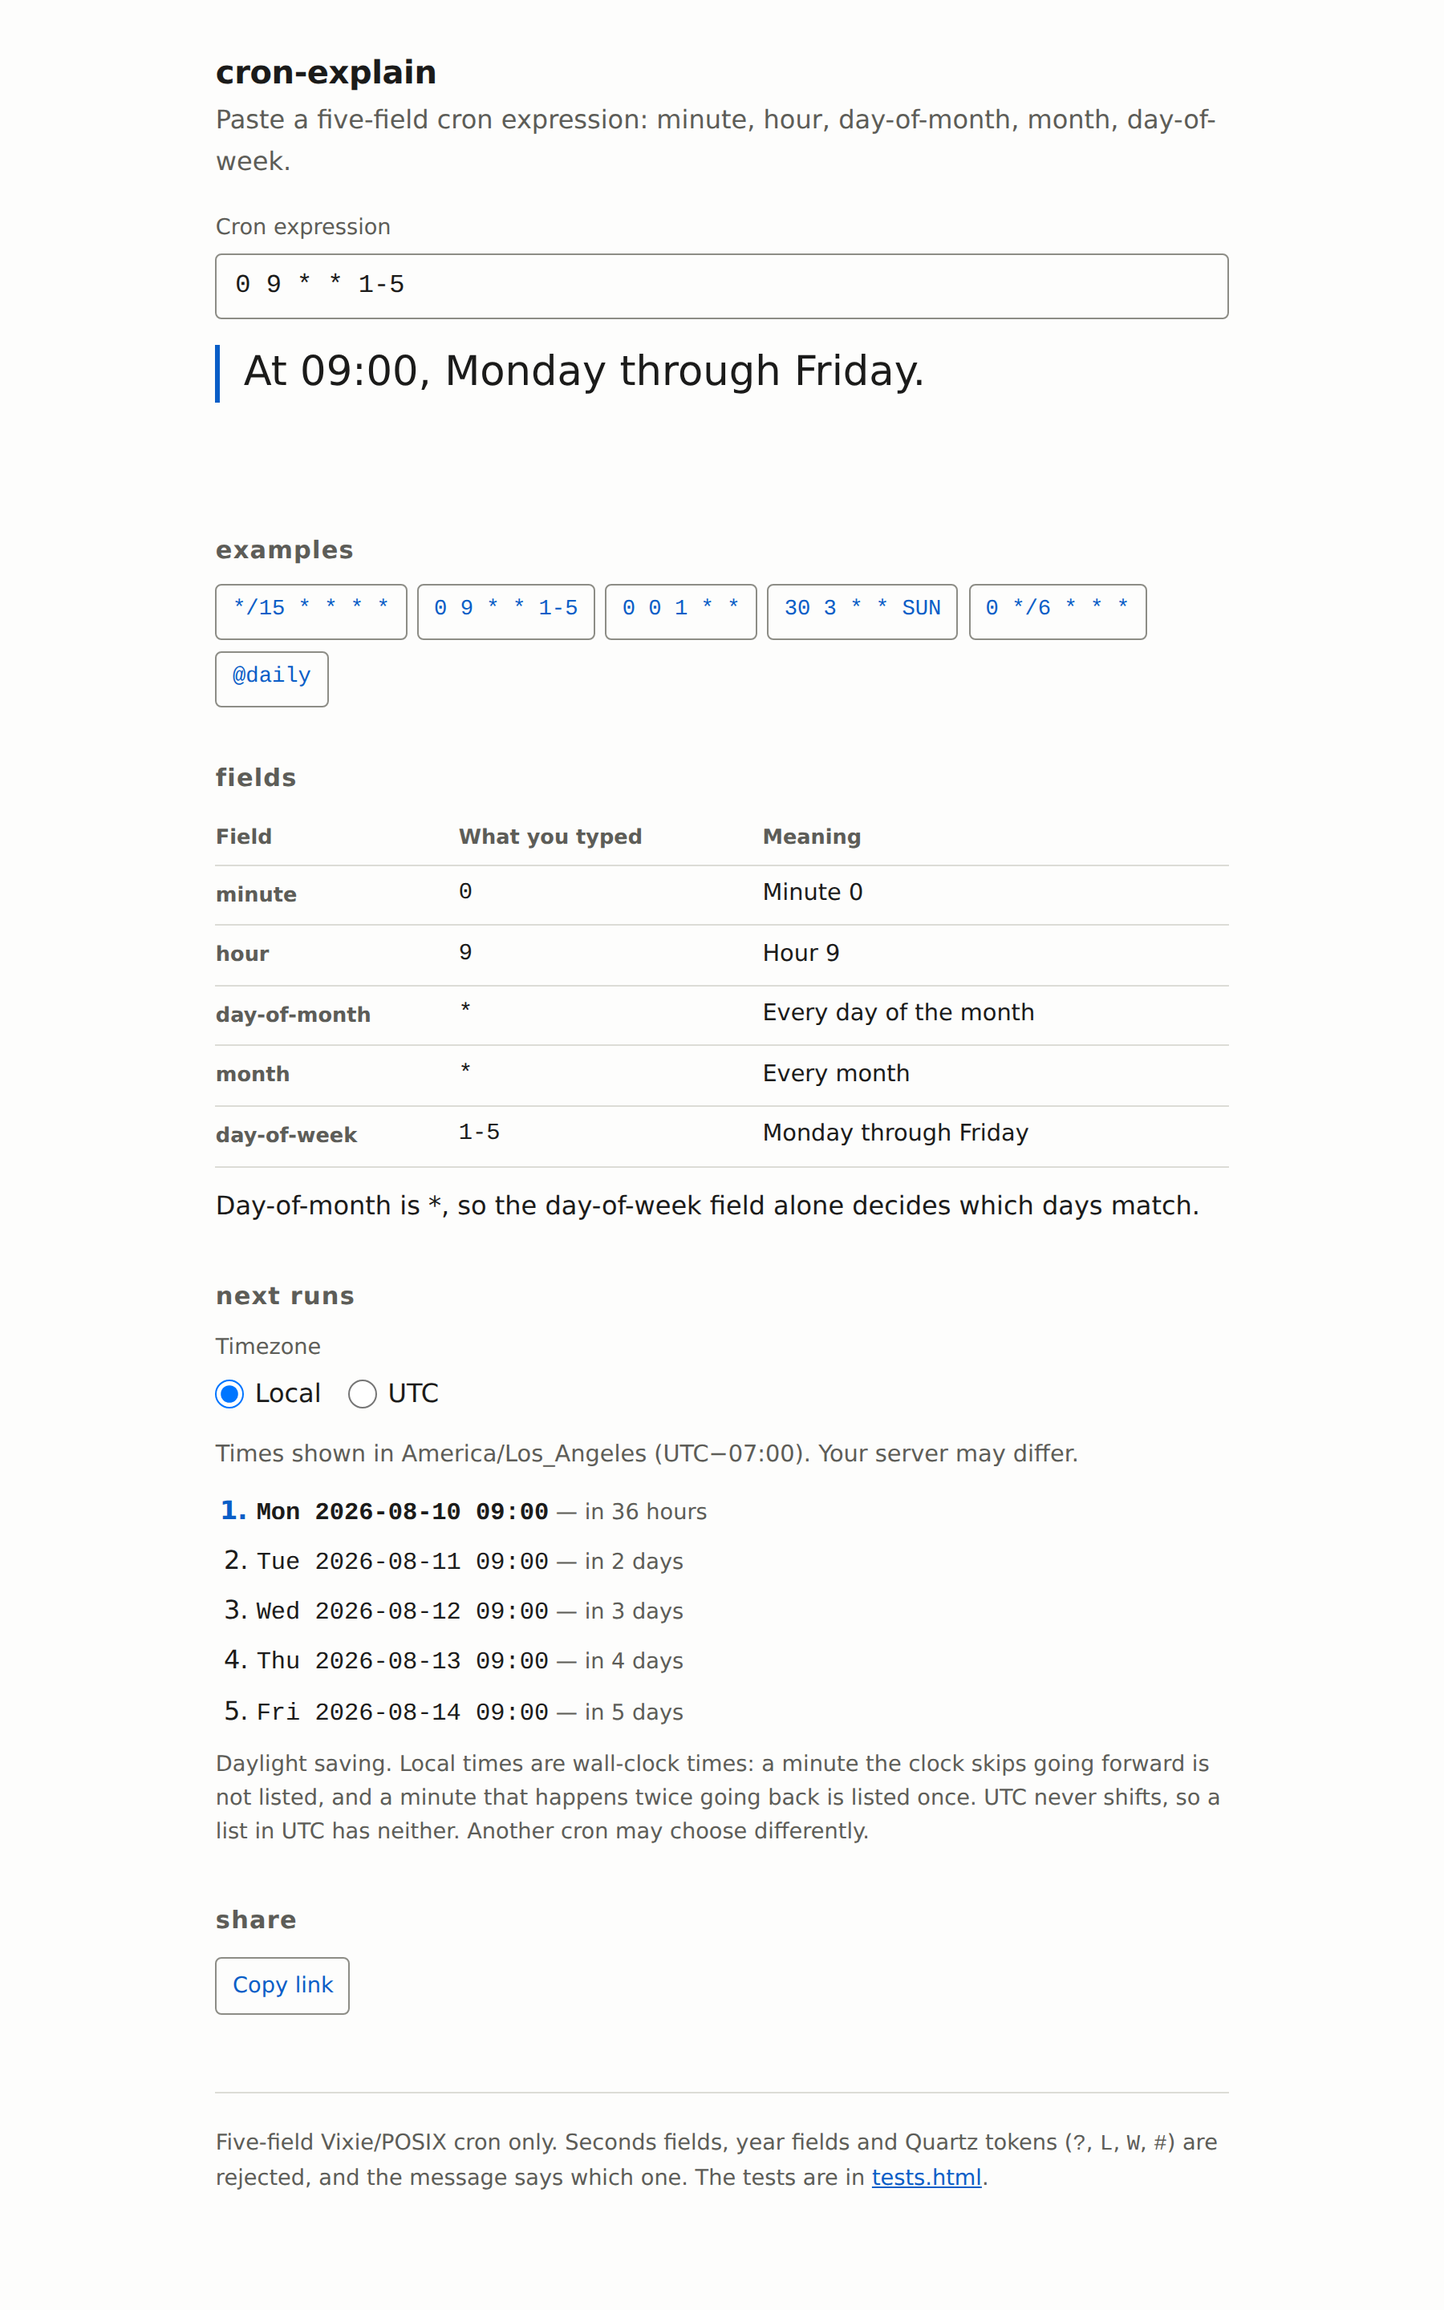
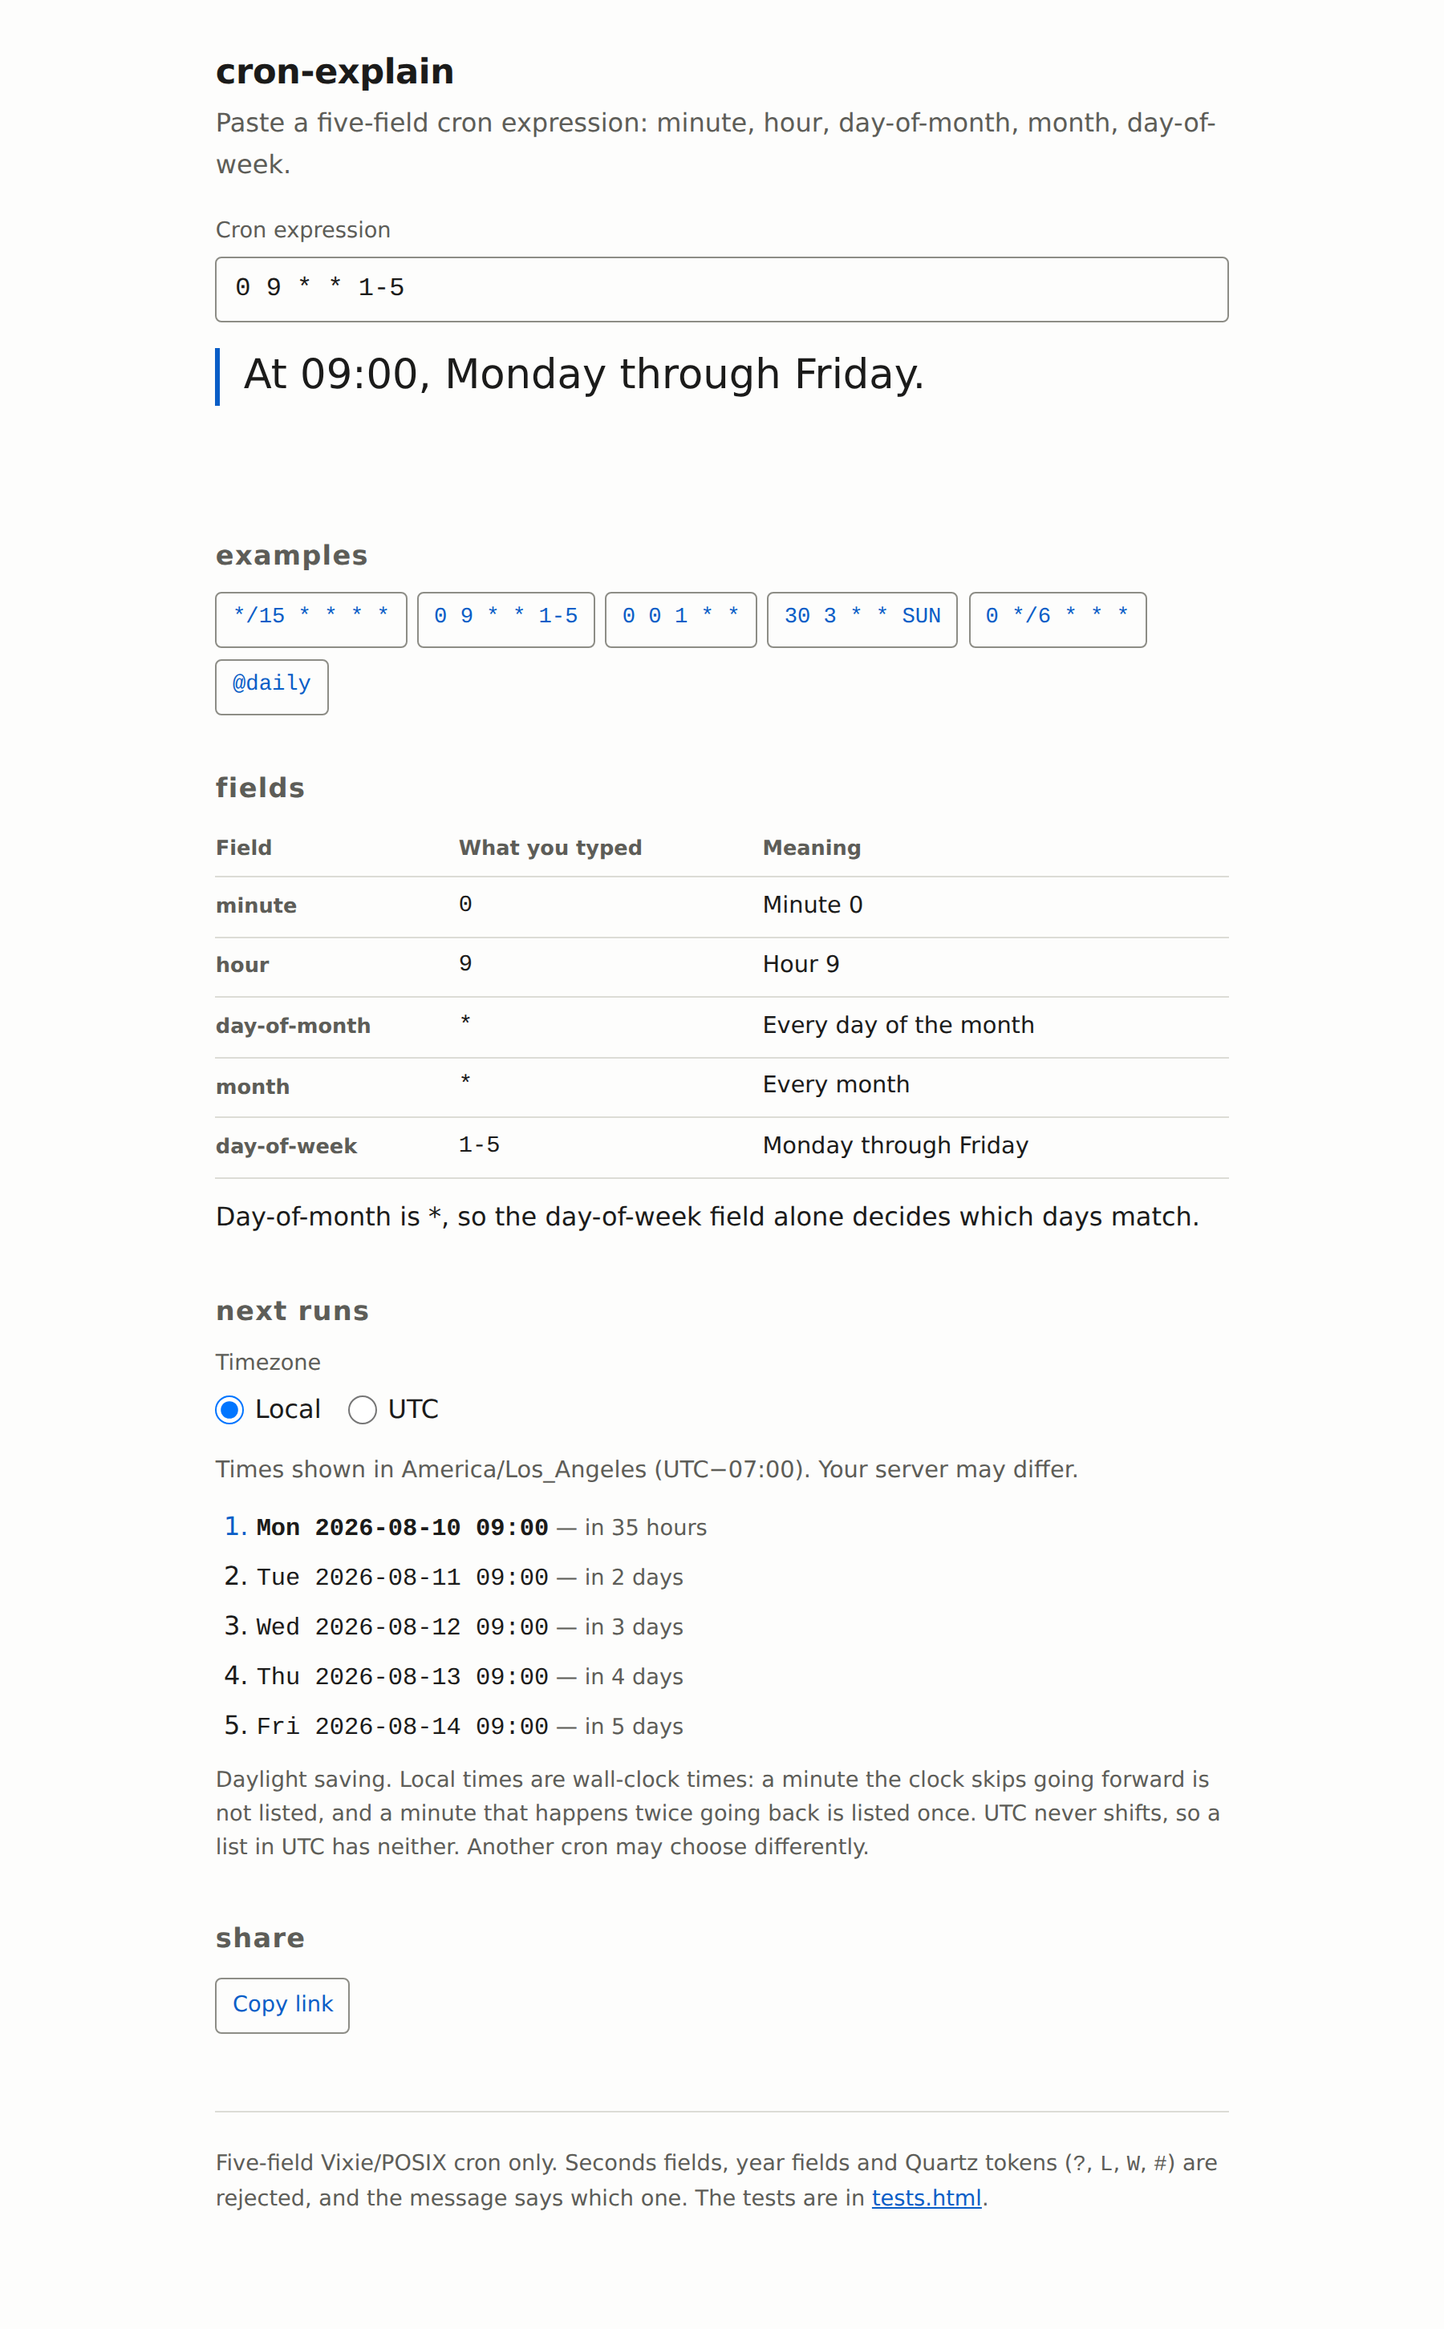
ui: fix what the last cycle's visual pass broke
- The error message had been left at .95rem while the sentence grew, so a
  mistyped character shrank the answer region to below body-text size. It
  is set as an answer now, capped by the reserve rather than by taste.
- Clearing the box fired three red alarms -- error text, two (not current)
  flags, a red rule -- for the most ordinary act on the page. An empty
  field is a resting state again: a muted prompt, the breakdown greyed and
  labelled, nothing red. A malformed expression still gets the full
  treatment.
- The answer's rule stayed blue down a red error while the run list turned
  red for the same fact. One state, one colour.
- @reboot's line hung 3px right of every other paragraph, from a border
  that li.empty's negative margin did not account for.
- The heading ladder had collapsed to within 0.8px on a phone. Ordered and
  measured now: answer > h1 > h2 > body at every breakpoint.
- The bolded first run leaned on the stale rule; the other four did not.

Screenshot re-captured. No horizontal scroll at ten widths across fourteen
expressions; the answer's first line holds one y per width across every
state, and the tallest error still fits the unchanged reserve.

diff --git a/index.html b/index.html
@@ -58,10 +58,14 @@
   }
   main { max-width: 62ch; margin: 0 auto; }
   /* The title is a label on a page you are already looking at; the sentence is
-     what you came for. So the title is set below body-plus, not above it, and
-     the answer is the largest thing on screen. See .sentence. */
-  h1 { font-size: 1.25rem; line-height: 1.3; margin: 0 0 .25rem; letter-spacing: -0.01em; }
-  h2 { font-size: .95rem; text-transform: lowercase; letter-spacing: .04em; color: var(--muted);
+     what you came for, so the answer stays the largest thing on screen. But the
+     ladder below it has to stay legible as a ladder: answer > h1 > h2 > body at
+     every breakpoint. Trimming h1 to 1.25rem/1.05rem put it within 0.8px of the
+     body text on a phone, which is no rank at all. These four steps are ordered
+     and measured: 25.6 / 21.6 / 16.8 / 16 wide, 21.6 / 19.2 / 16.8 / 16 at
+     <=480. See .sentence for the top of the ladder. */
+  h1 { font-size: 1.35rem; line-height: 1.3; margin: 0 0 .25rem; letter-spacing: -0.01em; }
+  h2 { font-size: 1.05rem; text-transform: lowercase; letter-spacing: .04em; color: var(--muted);
        margin: 2rem 0 .5rem; font-weight: 600; }
   /* The answer's reserve already ends in space; another 2rem on top of that is
      what made the resting state read as a gap nothing had filled. */
@@ -119,7 +123,7 @@
      y in every state. Two earlier attempts at this moved that line instead of
      pinning it. */
   .answer {
-    min-height: 6rem;      /* measured: tallest error at >=768px is 95.6px */
+    min-height: 6rem;      /* reserve holds; tallest error at >=768px now 80.0px */
     margin: 1rem 0 0;
   }
   /* The accent rule sits on the paragraphs, not on the block, so it stops
@@ -131,9 +135,25 @@
   .answer p { margin: 0; padding-left: .9rem; border-left: 3px solid var(--accent); }
   /* An empty paragraph must not reserve its margins on top of the block's. */
   .answer p:empty { display: none; }
+  /* One state, one colour. The run list ~700px below turns --error for the same
+     "not current" fact, so a blue rule down a red message read as two unrelated
+     conditions. The rule is on the paragraphs, so the whole block is recoloured
+     together rather than the message alone. */
+  .answer.is-error p { border-left-color: var(--error); }
   #expanded, #stale { padding-top: .35rem; }
   .sentence { font-size: 1.6rem; font-weight: 500; line-height: 1.4; margin: 0; }
-  .sentence.is-error { color: var(--error); font-size: .95rem; font-weight: 400; line-height: 1.45; }
+  /* The message replaces the answer, so it is set as an answer and not as a
+     caption: .95rem put it below the 16px body text, 6.4px under the sentence it
+     stands in for. The size is capped by the reserve, not by taste — the tallest
+     error has to stay inside a min-height that is not moving. Measured tallest
+     at this size: 80.0px of 96 wide, 107.0px of 138.4 at 481-767, and 137.1px of
+     160.8 at 320 with the 1.05rem step below. */
+  .sentence.is-error, .sentence.is-empty { font-size: 1.25rem; font-weight: 400; line-height: 1.35; }
+  .sentence.is-error { color: var(--error); }
+  /* Emptying the field is the first thing anyone does before typing their own
+     expression. It is a resting state, not a rejection: muted, no flags, no red
+     rule. Only a malformed expression gets the error treatment. */
+  .sentence.is-empty { color: var(--muted); }
 
   fieldset { border: 0; padding: 0; margin: .5rem 0 0; }
   legend { padding: 0; font-size: .85rem; color: var(--muted); }
@@ -179,11 +199,19 @@
      the list sideways while you typed. */
   ol#runs { margin: .5rem 0; padding-left: 1.4rem; border-left: 3px solid transparent; }
   ol#runs li { margin: .25rem 0; overflow-wrap: break-word; }
-  ol#runs li.empty { list-style: none; margin-left: -1.4rem; color: var(--muted); font-size: .9rem; }
+  /* The negative margin has to cancel the border as well as the padding, or the
+     one line with no marker — "@reboot fires when the machine boots", "no run in
+     the next N years" — starts 3px right of every heading and paragraph on the
+     page. The border itself stays permanently drawn; see above. */
+  ol#runs li.empty { list-style: none; margin-left: calc(-1.4rem - 3px); color: var(--muted); font-size: .9rem; }
   /* The next run is the one anybody is here for; the other four are context.
-     Weight on the stamp only — the hint is muted and bold muted reads broken. */
+     Weight on the stamp only — the hint is muted and bold muted reads broken.
+     The marker carries the accent and not the weight: a bold "1." is a wider
+     marker, and because markers are right-aligned to the text it grew leftwards
+     into the rule, so the first item cleared it by 2px where the rest cleared it
+     by 8. Colour ranks it without moving it. */
   ol#runs li:first-child:not(.empty) .stamp { font-weight: 600; }
-  ol#runs li:first-child:not(.empty)::marker { color: var(--accent); font-weight: 700; }
+  ol#runs li:first-child:not(.empty)::marker { color: var(--accent); }
   .stamp { font-size: .95rem; }
   /* The hint wraps as one piece or not at all: "in 36 / hours" split across
      two lines on the first item while the others stayed whole. */
@@ -194,8 +222,11 @@
      looks. The run list sits ~700px below the notice in the answer, so it
      carries its own: a rule down its side, and a flag on the heading right
      above it. Both frozen regions get the flag; neither is hidden, because
-     showing the last answer that parsed is the point. */
-  ol#runs.is-stale { border-left-color: var(--error); }
+     showing the last answer that parsed is the point.
+     The alarm is reserved for a rejected expression. An empty box freezes the
+     same content, but quietly: greyed and labelled in the answer, with no rule
+     and no flag. Select-all-delete is not a mistake to be shouted at. */
+  ol#runs.is-stale-error { border-left-color: var(--error); }
   ol#runs.is-stale li:first-child:not(.empty)::marker { color: var(--muted); }
   h2 .flag { color: var(--error); font-weight: 600; }
 
@@ -230,18 +261,23 @@
   /* The same message is one line at 1280px and four at 360px, so the reserve
      is measured per bucket. */
   @media (max-width: 767px) {
-    .answer { min-height: 8.65rem; }   /* tallest error at 481-767px: 138.1px */
+    .answer { min-height: 8.65rem; }   /* tallest error at 481-767px: 107.0px */
   }
 
   /* Phone widths: everything above the input is trimmed so the answer sits
      next to the box with the keyboard open. */
   @media (max-width: 480px) {
     body { padding: 1rem 1rem 3rem; }
-    h1 { font-size: 1.05rem; margin-bottom: .1rem; }
+    h1 { font-size: 1.2rem; margin-bottom: .1rem; }
     .lede { font-size: .95rem; line-height: 1.5; margin-bottom: .35rem; }
     label.field-label { margin-top: .85rem; }
-    .answer { min-height: 10.05rem; }   /* 160.1px at 360 */
+    .answer { min-height: 10.05rem; }   /* tallest error at 320: 137.1px */
     .sentence { font-size: 1.35rem; }
+    /* 320px is where the reserve binds: the tallest error is 137.1px of 160.8
+       here, and one step up (1.1rem) puts it at 160.7px, which is the reserve to
+       0.1px. So the message steps down with the sentence and stays above the
+       16px body text rather than below it. */
+    .sentence.is-error, .sentence.is-empty { font-size: 1.05rem; }
     /* A stamp plus a hint is one line too wide here, and which items wrapped
        depended on how long the hint happened to be — so the first UTC item
        broke and the rest did not, and switching zone moved the page. The hint
@@ -429,16 +465,25 @@
   // The full sentence is up in the answer, ~700px above the run list on a
   // phone. The flags are the same fact where the frozen content actually is,
   // short enough that raising one cannot rewrap its heading.
-  function setStale(on) {
-    var frozen = !!(on && lastGood);
-    tableEl.classList.toggle('is-stale', on);
-    dayRuleEl.classList.toggle('is-stale', on);
-    runsEl.classList.toggle('is-stale', on);
-    staleEl.textContent = frozen
-      ? 'Still showing the last expression that parsed: ' + lastGood.expression + '.'
-      : '';
-    runsFlag.textContent = frozen ? '(not current)' : '';
-    fieldsFlag.textContent = frozen ? '(not current)' : '';
+  //
+  // Two frozen states, one mechanism. 'error' is a rejected expression: the
+  // alarm belongs there, so both headings get a flag and the run list gets its
+  // rule. 'quiet' is an empty box, which is what select-all-delete produces
+  // before anyone types anything — the same content is frozen and labelled, but
+  // in grey, with nothing red anywhere on the page. '' is live.
+  function setStale(mode) {
+    var frozen = !!(mode && lastGood);
+    var alarm = frozen && mode === 'error';
+    tableEl.classList.toggle('is-stale', frozen);
+    dayRuleEl.classList.toggle('is-stale', frozen);
+    runsEl.classList.toggle('is-stale', frozen);
+    runsEl.classList.toggle('is-stale-error', alarm);
+    staleEl.textContent = !frozen ? ''
+      : alarm
+        ? 'Still showing the last expression that parsed: ' + lastGood.expression + '.'
+        : 'Fields and next runs below still show ' + lastGood.expression + '.';
+    runsFlag.textContent = alarm ? '(not current)' : '';
+    fieldsFlag.textContent = alarm ? '(not current)' : '';
   }
 
   function clear(node) {
@@ -547,6 +592,9 @@
   function goodAnswerHeight() {
     if (!lastGood) return 0;
     var ghost = answerEl.cloneNode(true);
+    // The copy stands in for a valid answer, so it carries none of the state
+    // the live block is in while it is being measured.
+    ghost.classList.remove('is-error');
     var ids = ghost.querySelectorAll('[id]');
     for (var i = 0; i < ids.length; i++) {
       ids[i].removeAttribute('id');
@@ -582,6 +630,7 @@
   // times in New York wall clock is the lie the greying exists to prevent.
   function showError(message) {
     sentenceEl.className = 'sentence is-error';
+    answerEl.classList.add('is-error');
     sentenceEl.textContent = message;
     // The live region says it once, to whoever was listening at the time. The
     // attribute says it for as long as it is true, to anyone who arrives at
@@ -590,18 +639,43 @@
     expandedEl.textContent = '';
     pinAnswer();
     if (lastGood) {
-      setStale(true);
+      setStale('error');
       renderRuns(lastGood, isUtc());
       return;
     }
     // Nothing has parsed yet — a cold load with a bad hash. There is nothing to
     // freeze, so both the table and the list say so instead of standing empty.
-    setStale(false);
+    setStale('');
     clear(rowsEl);
     emptyRow('No fields to break down: the expression above did not parse.');
     setDayRule('The day-of-month / day-of-week rule needs an expression that parses.');
     clear(runsEl);
     emptyRun('No run times: the expression above did not parse.');
+  }
+
+  // An empty box is not a rejected expression. The parser returns the same shape
+  // for both, so the empty case is caught before the message is read: nothing is
+  // invalid, nothing is red, and the block keeps the height the last answer gave
+  // it so deleting the line does not pull the page up. The breakdown below stays
+  // frozen and greyed, with one muted line saying what it belongs to.
+  function showEmpty() {
+    sentenceEl.className = 'sentence is-empty';
+    answerEl.classList.remove('is-error');
+    sentenceEl.textContent = 'Type five fields: minute hour day-of-month month day-of-week.';
+    input.removeAttribute('aria-invalid');
+    expandedEl.textContent = '';
+    pinAnswer();
+    if (lastGood) {
+      setStale('quiet');
+      renderRuns(lastGood, isUtc());
+      return;
+    }
+    setStale('');
+    clear(rowsEl);
+    emptyRow('No fields to break down yet: the box above is empty.');
+    setDayRule('The day-of-month / day-of-week rule needs an expression.');
+    clear(runsEl);
+    emptyRun('No run times yet: the box above is empty.');
   }
 
   function renderOnce() {
@@ -620,7 +694,13 @@
       return;
     }
 
-    if (!hashUndecoded) writeHash(text.replace(/^\s+|\s+$/g, ''));
+    var trimmed = text.replace(/^\s+|\s+$/g, '');
+    if (!hashUndecoded) writeHash(trimmed);
+
+    if (trimmed === '') {
+      showEmpty();
+      return;
+    }
 
     var parsed = CE.parse(text);
     if (!parsed.ok) {
@@ -629,9 +709,10 @@
     }
 
     lastGood = parsed;
-    setStale(false);
+    setStale('');
     input.removeAttribute('aria-invalid');
     sentenceEl.className = 'sentence';
+    answerEl.classList.remove('is-error');
     sentenceEl.textContent = CE.describe(parsed);
     expandedEl.textContent = expandedText(parsed);
 
@@ -655,6 +736,7 @@
       renderOnce();
     } catch (err) {
       sentenceEl.className = 'sentence is-error';
+      answerEl.classList.add('is-error');
       sentenceEl.textContent = 'Could not render this expression: ' +
         ((err && err.message) || String(err));
       clear(runsEl);
